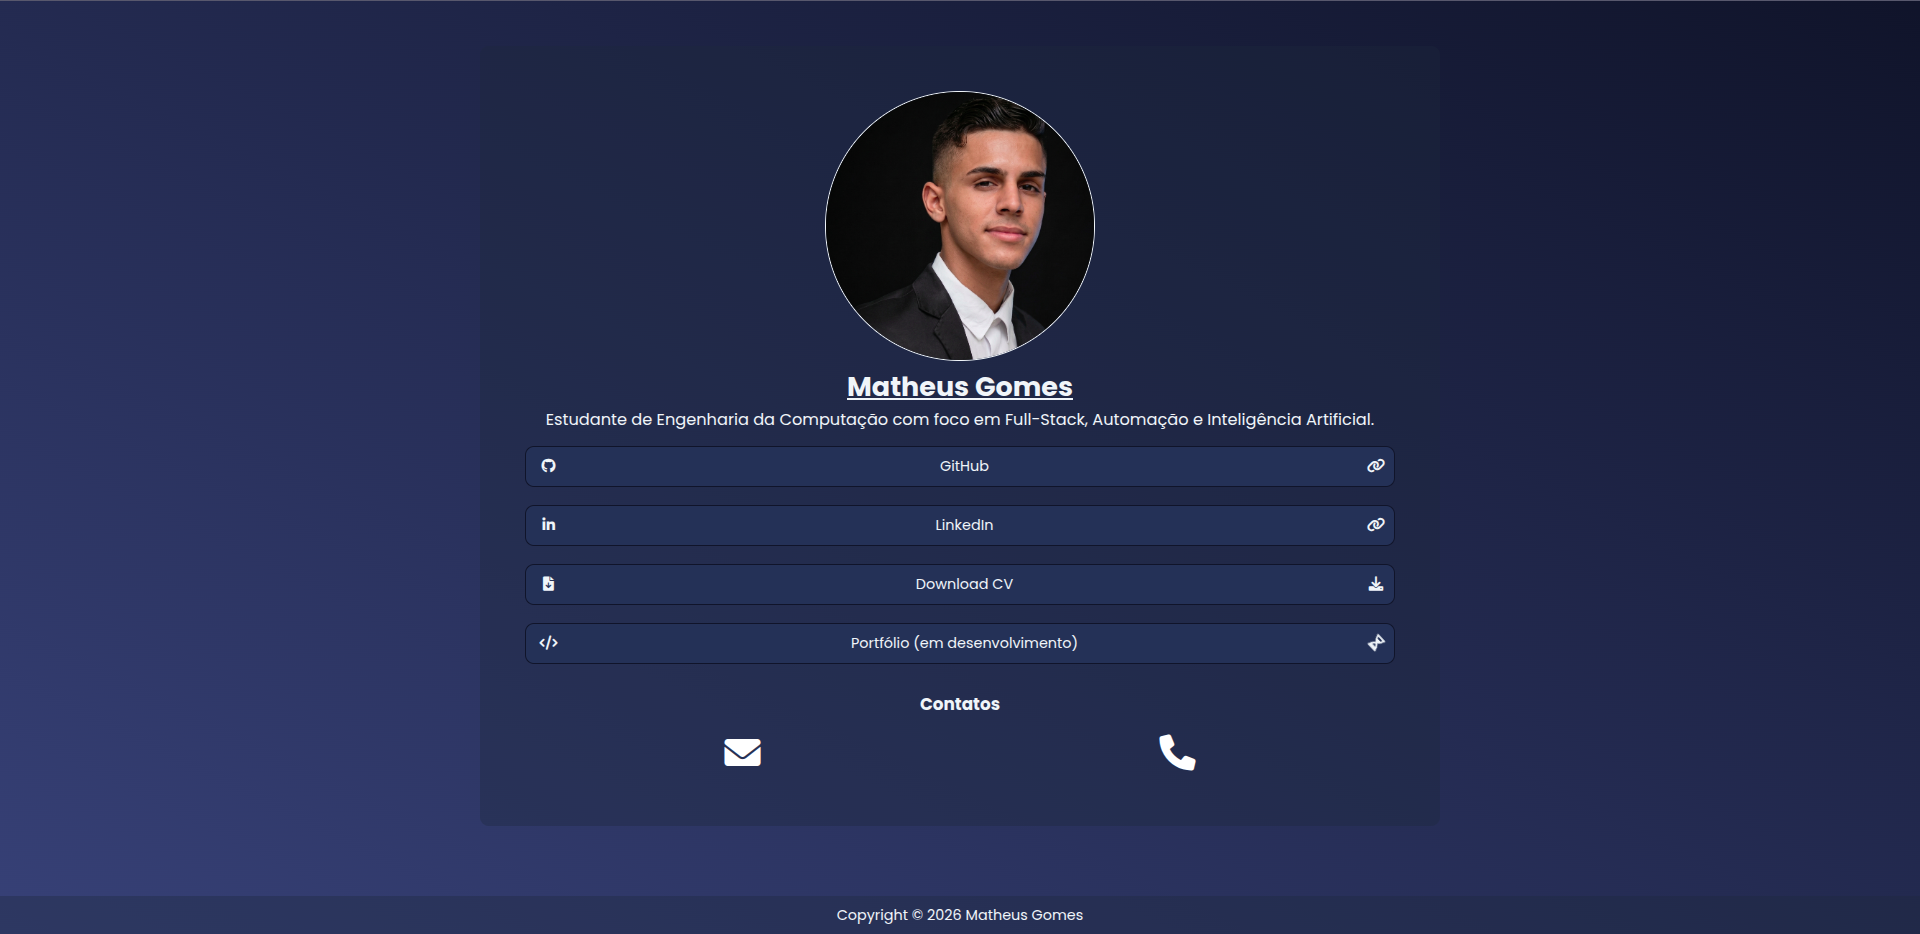
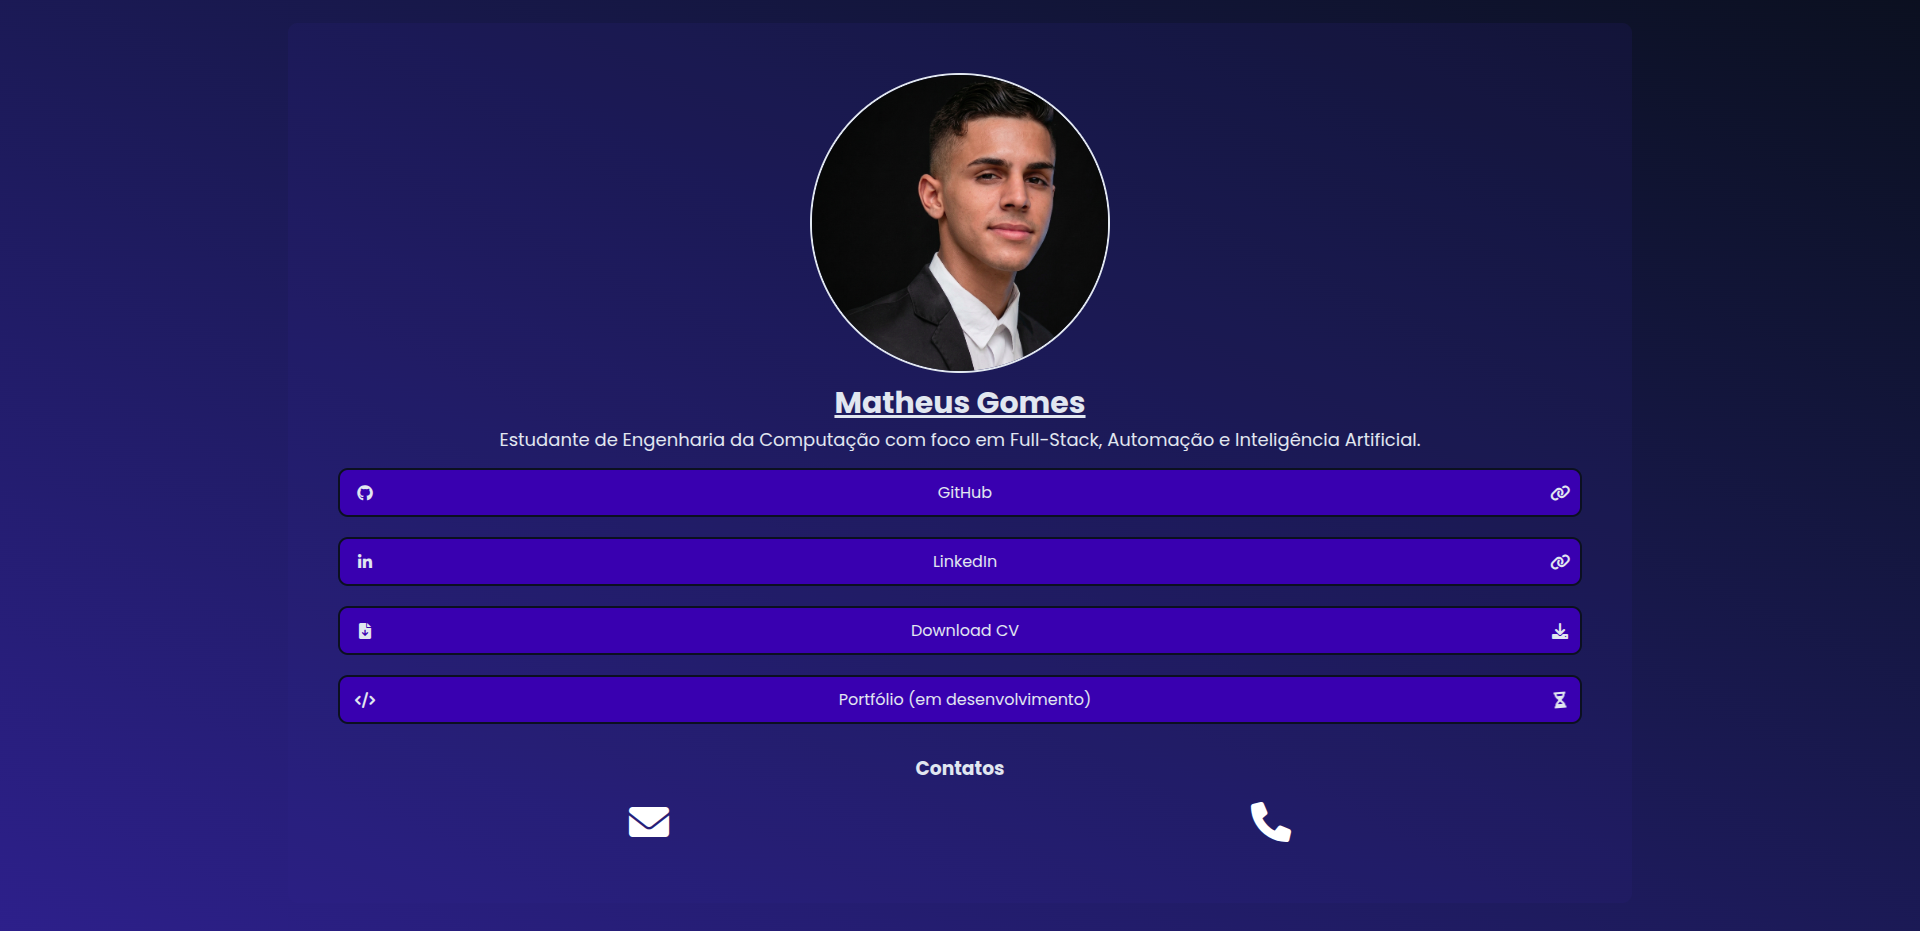
feat(front): Added mobile version

diff --git a/css/styles.css b/css/styles.css
@@ -18,26 +18,13 @@ body {
   width: 70%;
   border-radius: 10px;
   margin: auto;
-  margin-top: 50px;
-  display: block;
+  margin-top: 25px;
+  margin-bottom: 25px;
   text-align: center;
   color: var(--text-color);
 }
 
-@media (min-width: 900px) {
-  .main-container {
-    background-color: var(--background-color-container);
-    padding: 50px;
-    width: 50%;
-    border-radius: 10px;
-    margin: auto;
-    margin-top: 50px;
-    display: block;
-    text-align: center;
-    color: var(--text-color);
-  }
-}
-
+/* Photo */
 .main-photo > img {
   width: 300px;
   border: 2px solid var(--text-color);
@@ -49,6 +36,7 @@ body {
   transform: rotateY(180deg);
 }
 
+/* Texts above link-tree */
 .links-header {
   margin-bottom: 15px;
 }
@@ -67,6 +55,7 @@ body {
   font-size: 18px;
 }
 
+/* Link-tree */
 .tree-content {
   list-style: none;
   padding: 0;
@@ -106,6 +95,7 @@ body {
   }
 }
 
+/* Contact Session */
 .loading {
   animation: load 2s infinite;
 }
@@ -134,14 +124,4 @@ body {
 .contact ul a:hover {
   transform: scale(1.2);
   opacity: 0.8;
-}
-
-footer {
-  text-align: center;
-  padding: 10px;
-  margin-top: 50px;
-  background-color: var(--background-color-container);
-
-  color: var(--text-color);
-  width: 100%;
 }

diff --git a/index.html b/index.html
@@ -6,6 +6,7 @@
     <title>Matheus Gomes LinkTree</title>
     <link rel="stylesheet" href="./css/styles.css" />
     <link rel="stylesheet" href="./css/variables.css" />
+    <link rel="stylesheet" href="./css/mobile.css" />
     <link rel="preconnect" href="https://fonts.googleapis.com" />
     <link rel="preconnect" href="https://fonts.gstatic.com" crossorigin />
     <link
@@ -80,6 +81,5 @@
         </ul>
       </div>
     </div>
-    <footer>Copyright &copy; 2026 Matheus Gomes</footer>
   </body>
 </html>

diff --git a/css/variables.css b/css/variables.css
@@ -1,14 +1,15 @@
 :root {
   --background-color-gradient: linear-gradient(
     to bottom left,
-    #0f172a,
-    #354977
+    #0b1220,
+    #1e3a8a
   );
-  --background-color-container: #1e293b5b;
 
-  --text-color: #f1f5f9;
+  --background-color-container: rgba(30, 58, 138, 0.15);
 
-  --button-color-1: #243657;
-  --button-color-2: #0f172a;
+  --text-color: #e2e8f0;
+
+  --button-color-1: #1e40af;
+  --button-color-2: #0b1220;
   --button-color-hover: #3b82f6;
 }

diff --git a/css/mobile.css b/css/mobile.css
@@ -1,0 +1,21 @@
+@media (max-width: 450px) {
+  .main-container {
+    width: 90%;
+  }
+
+  .main-photo > img {
+    width: 150px;
+  }
+
+  .links-header > h2 {
+    font-size: 24px;
+  }
+
+  .links-header > p {
+    font-size: 14px;
+  }
+
+  .link-tree {
+    font-size: 14px;
+  }
+}

diff --git a/README.md b/README.md
@@ -4,7 +4,8 @@ Um projeto simples de **Link Tree** desenvolvido com **HTML e CSS puro**, com o 
 
 ## 📸 Preview
 
-![preview](./img/preview.png)
+<img src="./img/preview.png" width="65%">
+<img src="./img/preview-mobile.png" width="15%">
 
 ## 🚀 Tecnologias
 
